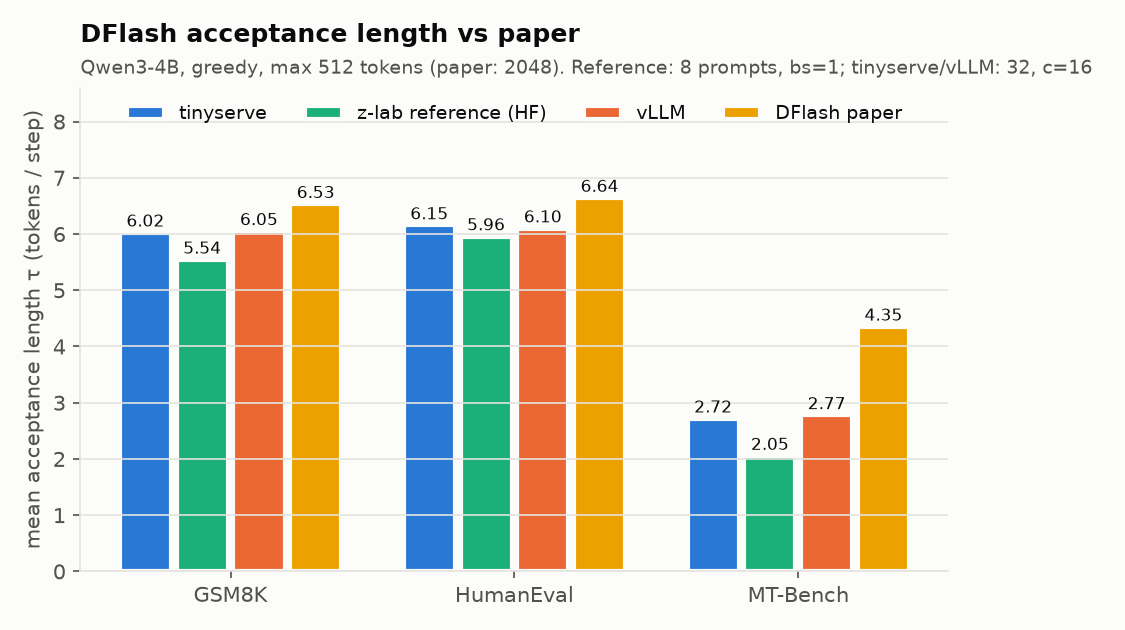
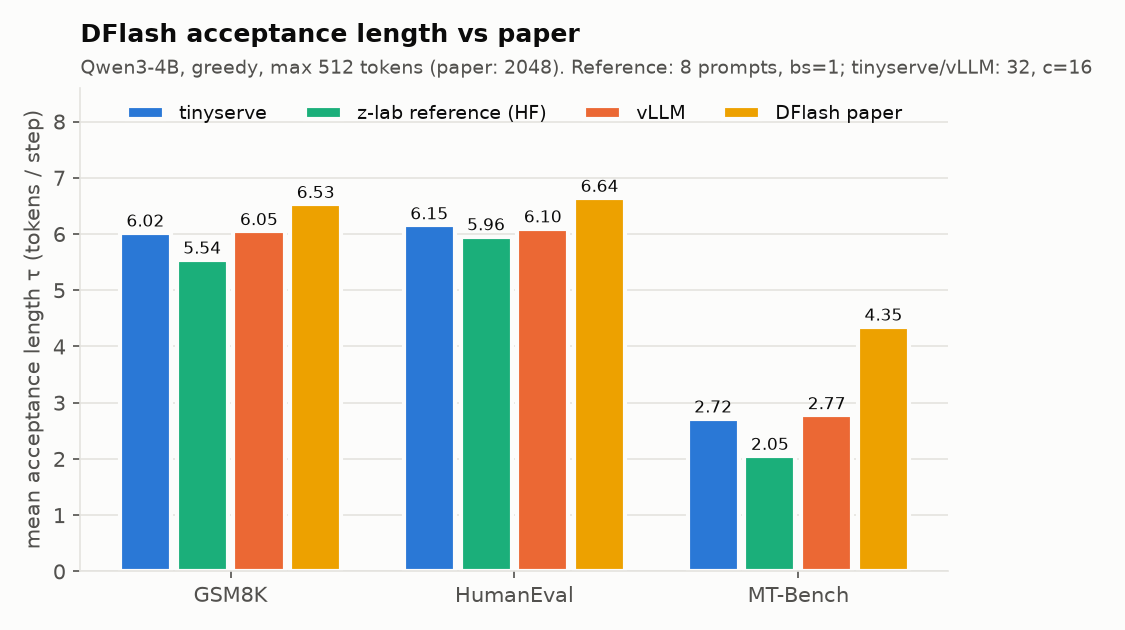
docs: README write-up from artifacts (results, benchmarks, what didn't work, cost)

diff --git a/bench/plot.py b/bench/plot.py
@@ -27,7 +27,7 @@ LABEL = {"tinyserve": "tinyserve", "vllm": "vLLM", "reference": "z-lab reference
 plt.rcParams.update({
     "figure.facecolor": SURFACE, "axes.facecolor": SURFACE, "axes.edgecolor": GRID, "axes.labelcolor": INK2,
     "xtick.color": INK2, "ytick.color": INK2, "text.color": INK, "axes.grid": True, "grid.color": GRID,
-    "grid.linewidth": 0.8, "axes.spines.top": False, "axes.spines.right": False, "font.size": 10,
+    "grid.linewidth": 0.8, "axes.axisbelow": True, "axes.spines.top": False, "axes.spines.right": False, "font.size": 10,
     "legend.frameon": False, "axes.titlesize": 12, "axes.titleweight": "bold", "axes.titlelocation": "left",
 })
 

diff --git a/README.md b/README.md
@@ -1,74 +1,317 @@
 # tinyserve
 
-(Work in progress; the full write-up is generated last, from artifacts only.)
+**A ~2.4k-line LLM inference engine with paged KV, continuous batching, prefix caching, CUDA graphs and 2026 DFlash speculative decoding, benchmarked against vLLM on a $0.80/hr GPU.**
+
+tinyserve serves Qwen3 (0.6B to 4B) through an OpenAI-compatible streaming API. It is written in plain
+PyTorch plus flash-attn kernels and one small Triton kernel, and it is tested to be **exactly** correct in
+float64 on a laptop CPU before it ever touches a GPU.
+
+> **Headline results** (NVIDIA L4, 2026-10-07; every number links to an artifact in `results/`)
+>
+> | | |
+> |---|---|
+> | Throughput vs vLLM 0.30.0, Qwen3-0.6B, 64 concurrent requests | **68% of vLLM** (1,461 vs 2,136 output tok/s) |
+> | DFlash speculative decoding, Qwen3-4B, GSM8K, batch 1 | **4.10x** faster than non-spec decode with CUDA graphs (112 vs 27.4 tok/s); vLLM's own DFlash: 4.27x |
+> | DFlash acceptance length τ (GSM8K / HumanEval / MT-Bench) | **6.02 / 6.15 / 2.72**; vLLM 6.05 / 6.10 / 2.77; paper 6.53 / 6.64 / 4.35 |
+> | Prefix caching, 2048-token shared prefix | time to first token **553.7 → 56.1 ms (9.9x)** |
+> | Total GPU spend for the whole project | **$4.44** of Modal credits |
+
+---
+
+## Quickstart
+
+```bash
+uv sync                                   # Python 3.12, torch 2.8 (CPU wheels locally)
+uv run pytest tests/cpu -m "not slow"     # 79 tests, float64, no GPU needed (~1 min)
+uv run pytest tests/cpu -m slow           # real Qwen3-0.6B in float32 vs HF transformers
+
+# GPU work runs on Modal (L4). Every entrypoint runs scripts/cost_guard.py first.
+uv run modal run modal_app.py::download_models          # CPU-only, into a Modal Volume
+uv run modal run modal_app.py::gpu_tests --suite m7     # DFlash verification suite
+uv run modal run modal_app.py::bench --engine tinyserve --suite core
+```
+
+Serve and query it like any OpenAI endpoint (transcript from the M6 GPU run is in RESULTS.md):
+
+```bash
+python -m tinyserve.server.api --model Qwen/Qwen3-4B --spec-method dflash --spec-draft-model z-lab/Qwen3-4B-DFlash-b16
+```
+
+```python
+from openai import OpenAI
+
+client = OpenAI(base_url="http://127.0.0.1:8000/v1", api_key="none")
+stream = client.chat.completions.create(
+    model="Qwen/Qwen3-4B", messages=[{"role": "user", "content": "Name three primary colors."}],
+    max_tokens=64, temperature=0, stream=True,
+    extra_body={"chat_template_kwargs": {"enable_thinking": False}},
+)
+print("".join(c.choices[0].delta.content or "" for c in stream if c.choices))
+```
+
+Offline API: `from tinyserve import LLM, SamplingParams; LLM("Qwen/Qwen3-0.6B").generate(["Hello"], SamplingParams(max_tokens=32))`.
+
+---
+
+## Architecture
+
+```
+ HTTP client ──▶ server/api.py (FastAPI, SSE)  /v1/completions  /v1/chat/completions  /v1/models  /health  /metrics
+                   │  tokenize, chat template, incremental detokenizer
+                   ▼
+                 server/async_engine.py ── one background thread: while work: engine.step()
+                   │                        (blocks on an Event when idle; results go back via call_soon_threadsafe)
+                   ▼
+                 engine.py  LLMEngine.step():
+                   1. scheduler.schedule()        -> Batch(PREFILL | DECODE | SPEC)       pure Python
+                   2. model_runner.run(batch)     -> new token ids                        torch
+                   3. scheduler.postprocess(...)  -> append, stop checks, free blocks     pure Python
+                   │
+   scheduler.py ───┴── block_manager.py   blocks, ref counts, free list, chained-hash prefix cache (no torch)
+   model_runner.py     slot mapping / block tables / cu_seqlens, KV pool, CUDA graphs (decode + spec verify)
+     ├── models/qwen3.py    Qwen3 target, returns aux hidden from layers [1, 9, 17, 25, 33] for DFlash
+     ├── spec/dflash.py     5-layer DFlash draft with its own KV pool on the SAME block tables
+     └── attention/         flash-attn backend (GPU) | pure-PyTorch reference backend (CPU, any block size)
+                            | triton_store.py: the one Triton kernel (scatter K/V into cache slots)
+```
+
+**Life of a request.** The handler tokenizes the prompt (or applies the chat template with thinking
+disabled) and hands it to the engine thread. The scheduler looks up the prompt's full blocks in the prefix
+cache, allocates the rest, and runs a PREFILL step over only the uncached tokens. After that the sequence
+joins the running set: each step is a DECODE (one token, CUDA-graph replay) or, with DFlash, a SPEC step
+(draft 15 tokens, verify 16, keep the agreeing prefix plus one). Every step streams one SSE chunk per
+sequence. On EOS / max_tokens the blocks are freed but keep their hashes, so the next request with the same
+prefix skips that work.
+
+---
+
+## Why each optimization helps
+
+### Paged KV cache
+*Problem:* reserving `max_model_len` contiguous KV slots per request wastes most of the memory and makes
+sharing impossible. *Idea (PagedAttention):* the cache is a pool of fixed-size blocks and each sequence
+has a block table, like a page table: position `p` lives at `block_table[p // B] * B + p % B`. *In
+tinyserve:* `block_manager.py`, plus `model_runner._slots` for the slot mapping. FlashAttention-2's paged
+kernels require blocks of 256 tokens, so the GPU path uses 256 (the CPU reference backend accepts any size;
+tests use 16). *Effect:* on the L4 at 85% memory, Qwen3-0.6B gets 613 blocks = 157k tokens of KV, enough
+for 128 concurrent 1k-token requests.
+
+### Continuous batching with preemption
+*Problem:* static batches wait for their slowest member. *Idea (Orca):* reschedule every iteration;
+finished sequences leave and waiting ones join at the next step. When the KV pool is full, the newest
+sequence is preempted, and later recomputed from prompt + generated tokens (often cheaply, because its
+blocks are still in the prefix cache). *In tinyserve:* `scheduler.py`. *Effect:* throughput grows 15x from
+1 to 128 concurrent requests (109 → 1,636 tok/s, chart below). In float64, batched, preempted and randomly
+arriving requests produce token-identical output to running each alone (`tests/cpu/test_engine_batching.py`).
+
+### Prefix caching (hash chain vs radix tree)
+*Problem:* shared system prompts and chat history are recomputed for every request. *Idea:* name each full
+block by `xxh64(parent_hash, its tokens)`. The chain makes a hit on block i imply the whole prefix matched,
+and lookup is a dict walk until the first miss. This is vLLM's automatic prefix caching. SGLang's
+RadixAttention uses a radix tree instead: token-granular matches and natural LRU over branches, at the cost
+of more code. tinyserve registers a block only after its KV is computed (and, with DFlash, after the draft's
+KV is too), so a hit is always safe. *Effect:* 9.9x faster TTFT in the M4 test; 1,052 → 198 ms TTFT p50 on
+the W2 benchmark (vLLM: 160 ms).
+
+![prefix cache TTFT](results/charts/prefix_cache_ttft.png)
+
+### CUDA graphs
+*Problem:* a decode step of a small model is hundreds of tiny kernels, and the GPU waits for Python to launch
+them. *Idea:* record the decode forward once per batch-size bucket and replay it with one call; pad the
+batch to the next bucket, with padded rows pointing at a reserved dummy KV block. *Effect:* Qwen3-0.6B
+decode drops from 39.1 to 7.75 ms per token at batch 1 (5.0x) with output identical to eager (32/32).
+M9 applies the same trick to the DFlash verify step (1.34x more spec throughput at batch 1).
+
+![CUDA graph ITL](results/charts/cuda_graph_itl.png)
+
+### DFlash speculative decoding (the headline)
+*Problem:* decode is memory-bound. Each step reads all 8 GB of Qwen3-4B's weights to produce one token per
+sequence, so batch-1 decode on a 300 GB/s L4 tops out near 37 tok/s (measured: 27.4).
+
+*Idea:* reading the weights once can verify many tokens. A draft guesses 15 tokens; the target scores all 16
+positions in one forward; we keep the longest prefix where the draft matched the target's own greedy choice,
+plus one bonus token. The output is **identical** to greedy decoding; the draft only changes how many tokens
+each step yields. DFlash (Chen, Liang, Liu, 2026) drafts the whole block in **one** non-causal forward of a
+5-layer model: the block `[last token, MASK × 15]` is denoised at once, conditioned on hidden states from 5
+target layers that are injected into the draft's KV cache. Autoregressive drafters (EAGLE-3) need 15
+sequential draft steps for the same block.
+
+*In tinyserve:* `spec/dflash.py` (draft), `spec/proposer.py` (one batched draft forward per step),
+`model_runner.run_spec` (verify) and `spec/verify.py` (greedy accept). The draft's KV pool uses the same
+block tables as the target, so paging, preemption and prefix caching work unchanged.
+
+*Effect:* 4.10x at batch 1 (offline, graph-captured verify) and 3.96x through the HTTP server, with τ ≈ 6 on
+GSM8K and HumanEval, within 1% of vLLM's DFlash and within 2% of the z-lab reference. *Why the speedup
+shrinks with concurrency:* at 16 concurrent requests each step verifies 256 tokens, the target forward
+starts to become compute-bound, and every rejected token is wasted compute. Both engines converge to ~3.1x
+at c=16 (the paper's B200 numbers fall from 4.8x to 2.9x by c=32).
+
+![DFlash speedup](results/charts/spec_speedup_vs_concurrency.png)
+![tau vs paper](results/charts/tau_vs_paper.png)
+
+---
+
+## Benchmarks vs vLLM (same L4, same model, same client)
+
+**Method** (PLAN.md §7). Server and load generator run in the same Modal container for both engines, with
+byte-identical requests from `bench/client.py` (closed-loop concurrency, streaming). bf16,
+`max_model_len=4096`, `gpu_memory_utilization=0.85`, `max_num_seqs=128`, prefix caching on. vLLM 0.30.0 runs
+with its defaults (CUDA graphs, torch.compile, chunked prefill). W1/W2 send token-id prompts to
+`/v1/completions` with `ignore_eos`; W3 sends chat prompts with `enable_thinking: false` and `temperature: 0`.
+Metric definitions follow `vllm/benchmarks/serve.py`. Full tables: [`results/bench/summary.md`](results/bench/summary.md).
+
+![throughput](results/charts/throughput_vs_concurrency.png)
+![TTFT](results/charts/ttft_p50_vs_concurrency.png)
+![TPOT](results/charts/tpot_p50_vs_concurrency.png)
+
+| concurrency | 1 | 4 | 16 | 64 | 128 |
+|---|---|---|---|---|---|
+| tinyserve output tok/s | 109 | 354 | 870 | 1,461 | 1,636 |
+| vLLM output tok/s | 161 | 544 | 1,352 | 2,136 | 2,310 |
+| tinyserve / vLLM | 68.0% | 65.0% | 64.3% | **68.4%** | 70.8% |
+
+Run-to-run spread (repeat at c=16): tinyserve 870 vs 846 tok/s (2.8%), vLLM 1,352 vs 1,349 (0.2%).
+DFlash at c=1: 76.5 vs 76.7 tok/s (eager verify), 104.3 vs 102.0 (graph verify).
+
+**Where the remaining ~32% goes** (one-off `torch.profiler` + step-timing run, `results/verify/profile.log`):
+1. **The HTTP layer costs ~21%.** The same workload runs at 1,843 tok/s in the offline engine vs 1,461
+   through the server. Server and engine share one Python process: SSE encoding, detokenization and asyncio
+   compete with the engine thread for the GIL. vLLM runs its engine core in a separate process.
+2. **Prefill is unfused and blocks decode.** A prefill step of up to 8,192 tokens averages 345 ms (~28 TFLOPS,
+   23% of the L4's dense peak) and, without chunked prefill, stalls every running decode while it runs.
+   This shows up as tinyserve's TTFT at c=64 (1.23 s vs vLLM's 0.24 s).
+3. **Decode is GPU-bound, not CPU-bound** (87% of CPU time is spent waiting for the GPU). The gap is kernel
+   efficiency: vLLM's torch.compile fuses RMSNorm / RoPE / SiLU-and-mul, while tinyserve runs them as separate
+   kernels, and at these context lengths each decode step also reads ~5 GB of KV.
+
+---
+
+## Correctness: how losslessness is tested
+
+* **Exact on CPU in float64.** A torch reference attention backend runs the *whole engine* on a laptop.
+  Tiny random Qwen3 models in float64 make greedy decoding free of ties, so the tests demand exact equality:
+  logits vs HF transformers < 1e-9; batched == sequential == preempted == random arrival; cache on == cache off;
+  spec == non-spec; and, for DFlash, the **per-step acceptance lengths and draft logits equal the vendored z-lab
+  reference** (`tests/reference/dflash_ref.py`, MIT). Real Qwen3-0.6B in float32 matches HF `generate` token for token.
+* **The tests catch real bugs.** Injecting two bugs from the DFlash debug checklist (off-by-one RoPE positions
+  for draft context, missing `k_norm` on context keys) fails the parity tests while losslessness still passes.
+  That is expected, since a bad draft only lowers τ.
+* **Mock proposers.** An oracle proposer (the target's own continuation) must give τ = 16 exactly; a random one
+  τ ≈ 1; a "corrupted oracle" running the real draft forward forces acceptance lengths 1-16 and checks every
+  step's draft logits against a from-scratch reference forward.
+* **On the GPU, one pre-declared near-tie rule.** bf16 kernels differ in the last bit, so two correct
+  implementations can pick different tokens where the top-2 logits are (nearly) equal. A divergence counts only
+  if the reference's top-1/top-2 gap there is < 0.5. Any other divergence is reported as a mismatch.
+
+---
 
 ## What didn't work / didn't reproduce
 
-### M2: bf16 GPU thresholds (FAIL as specified; analysis)
+Every target below is kept as written in PLAN.md and marked FAIL where missed; the analysis is here.
 
-Artifacts: `results/verify/m2.json`, `results/verify/m2.log`.
+### bf16 GPU "exact match" targets (M2, M3, M4, M7c): FAIL, and why
 
-* **(a) flash vs torch backend, prefill logits max-abs-diff < 0.15: measured 0.75 (FAIL).**
-  Top-1 agreement was 99.55% (passes the >= 99% part). Same-run diagnostic: each bf16 backend is
-  about as far from a float32 run of the same weights (flash 0.89, torch-bf16 0.77 max-abs), and
-  flash agrees with fp32 on top-1 *more* often (99.55%) than the torch backend does (99.11%).
-  Mean |flash - torch| is 0.04. Conclusion: the 0.75 gap is bf16 rounding in a 28-layer bf16
-  residual stream (logits are ~20-30, where one bf16 ulp is 0.125), not a backend bug. A 0.15
-  max-abs threshold is below the bf16 noise floor for this model. The exactness of the math is
-  established on CPU instead (float64 tiny model: < 1e-9 vs HF; real Qwen3-0.6B float32:
-  token-identical to HF `generate`).
-* **(c) greedy 128 tokens vs HF bf16, >= 7/8 exact: measured 3/8 exact, 8/8 exact-or-near-tie (FAIL on the exact count).**
-  Every divergence happened where HF's own top-1/top-2 gap was 0.0-0.125 (0-1 bf16 ulp). The
-  same-run baseline is decisive: **HF bf16 sdpa vs HF bf16 eager (same weights, same framework)
-  is also only 3/8 exact, 8/8 near-tie.** Exact agreement over 128 bf16 greedy tokens is not a
-  property any two attention kernels have here, so the >= 7/8 target was unrealistic. Next time:
-  compare at >= 8 decimal precision (fp32 on GPU) for exactness and keep bf16 for the near-tie rule only.
+The plan expected 87-97% of bf16 GPU outputs to match token for token across kernels or batch shapes.
+Measured: M2 3/8 (vs HF), M3 24/64 (batched vs bs=1), M4 14/32 (cache on vs off), M7 32/96 (spec vs non-spec).
+The near-tie rule passed on 8/8, 64/64, 32/32 and 93/96.
 
-### M3: batched vs sequential in bf16 (FAIL on the exact count; analysis)
+* The decisive baseline (M2, same run): **HF transformers bf16 sdpa vs HF bf16 eager is also only 3/8 exact**
+  (8/8 near-tie). Two attention kernels in the same framework, with the same weights, disagree as often as
+  tinyserve disagrees with HF.
+* Divergences sit at bf16-quantized gaps: in M3, all 40 were at gaps ≤ 0.25 and **20 at exactly 0.0** (two
+  vocabulary entries with the same bf16 logit). A different batch size picks a different cuBLAS GEMM, the
+  hidden state changes in its last bit, and the tie flips. In M4 the prompts were random token ids (flat
+  distributions); every divergence was a near-tie.
+* M2(a) flash vs torch backend: max-abs logit diff 0.75 vs the 0.15 target, but each bf16 backend is about as far from
+  float32 (0.89 and 0.77), and flash agrees with float32 on top-1 more often (99.55% vs 99.11%). 0.15 is below
+  bf16's noise floor for a 28-layer model: the logit gaps we observe are multiples of 0.125, which is one bf16 ulp
+  for values between 16 and 32.
+* **M7c has 3 divergences at a gap of exactly 0.5**, the boundary of the rule (< 0.5), so they count as
+  mismatches. All 64 divergences have gaps that are multiples of 0.125 (0, 0.125, 0.25 or 0.5), and the
+  float64 CPU tests show spec == non-spec exactly, so I believe these are rounding too, but the run did not save
+  which prompts diverged, so this is unverified. Next step: re-run those prompts in float32 on the GPU.
+* Lesson: exactness belongs in float64/float32 tests; bf16 tests should only assert the near-tie rule.
 
-Artifacts: `results/verify/m3.json`, `results/verify/m3.log`.
+### DFlash τ on MT-Bench (M7b): 2.72 vs the paper's 4.35, FAIL (target ≥ 3.0)
 
-* **Batched (max_num_seqs=32) vs bs=1 sequential, 64 chat prompts x 128 tokens: 24/64 exact (target >= 60), 64/64 exact-or-near-tie.**
-  All 40 divergences happened where the bs=1 run's own top-1/top-2 logit gap was <= 0.25, and
-  **20 of them at a gap of exactly 0.0** (two vocabulary entries with the same bf16 logit). With a
-  batch of 32 instead of 1, cuBLAS picks different GEMM kernels, the bf16 hidden states differ in
-  the last bit, and exact ties flip. The same code is exact in float64 on CPU (`tests/cpu/test_engine_batching.py`:
-  batched, preempted, random-arrival == solo, token for token), so this is bf16 arithmetic, not
-  scheduling or paging. The >= 60/64 target assumed bf16 greedy decoding is far more stable than it is
-  for 128-token outputs: 40/64 outputs reach a near-tie within 128 tokens, 20/64 an exact tie.
+GSM8K (6.02 vs 6.53) and HumanEval (6.15 vs 6.64) are at 92-93% of the paper and pass. MT-Bench is not a
+tinyserve bug: the vendored z-lab reference gets **2.05** on the same prompts, and vLLM's DFlash gets 2.77.
+Likely causes, not verified: we use only the first turn of each MT-Bench conversation, cap output at 512
+tokens (the paper uses 2048), and may format the prompts differently than the paper's harness.
 
-### M4: prefix cache on vs off in bf16 (hit rate and TTFT pass; exact count FAILs)
+### Speedup vs the paper (M7d, M8)
 
-Artifacts: `results/verify/m4.json`, `results/verify/m4.log`.
+The paper reports 5.15x at batch 1 on an H200 with a tuned stack. tinyserve reached 3.12x with an eager spec
+path (M7) and 4.10x after graph-capturing the verify step (M9c); vLLM's own DFlash reached 4.27x on the same
+L4. The remaining gap to vLLM (112 vs 129 tok/s offline at batch 1) is the draft forward, which is still eager
+because its context length varies per step.
 
-* Hit rate **0.943** (target >= 0.85, PASS) and TTFT p50 **553.7 ms -> 56.1 ms** (ratio 0.101, target <= 0.5, PASS: 9.9x faster).
-* **Outputs cache-on vs cache-off: 14/32 exact (target >= 31), 32/32 exact-or-near-tie (FAIL on the exact count).**
-  With the cache on, the 2048-token prefix is not recomputed: the 64 suffix tokens attend to it
-  through `flash_attn_varlen_func(block_table=...)` instead of in one fresh causal pass, so the bf16
-  rounding differs. The prompts are random token ids, which give the model flat next-token
-  distributions, so near-ties are even more common than with real text. Every divergence was a near-tie (< 0.5 logit gap).
-  The CPU float64 test shows cache-on == cache-off exactly (`tests/cpu/test_prefix_cache.py`).
-  (This run did not store per-divergence gaps; later suites do.)
+### Throughput: 68% of vLLM (target ≥ 60% met; stretch ≥ 85% missed)
 
-### M7: DFlash (speedup and reference parity pass; MT-Bench tau and the bf16 exact count FAIL)
+See "Where the remaining ~32% goes" above. The three fixes, in expected order of payoff: run the engine core in
+its own process; chunked prefill; fused norm/RoPE/activation kernels (or `torch.compile`, a non-goal here).
 
-Artifacts: `results/verify/m7.json`, `results/verify/m7.log`. Qwen3-4B + `z-lab/Qwen3-4B-DFlash-b16`, bf16, L4, greedy, max 512 tokens, thinking disabled.
+### Smaller things
 
-* **(a) tau parity with the z-lab reference (PASS):** tinyserve tau at bs=1 is within 2% of the vendored
-  reference `spec_generate` on the same 8 prompts per dataset (GSM8K 5.65 vs 5.54, HumanEval 6.08 vs 5.96,
-  MT-Bench 2.08 vs 2.05). On CPU in float64 the per-step acceptance sequence *and* the draft logits match the
-  reference exactly (`tests/cpu/test_dflash_spec.py`, mutation-checked: injected RoPE-offset and missing-k_norm bugs make it fail).
-* **(b) tau vs paper: GSM8K 6.02 (0.92x of 6.53) and HumanEval 6.15 (0.93x of 6.64) pass; MT-Bench 2.72 vs 4.35 (0.62x) FAILS the >= 3.0 target.**
-  The reference implementation itself gets only 2.05 on our MT-Bench prompts, so this is not a tinyserve bug.
-  Likely causes, none verified: we use only the first turn of each MT-Bench conversation and cap output
-  at 512 tokens (the paper uses 2048, and longer generations tend to accept more); the paper's exact MT-Bench prompt
-  formatting may differ. GSM8K/HumanEval are below the paper by ~7%, consistent with the 512-token cap.
-* **(c) lossless spec vs non-spec in bf16: 32/96 exact (target >= 90), 93/96 exact-or-near-tie (target 96/96): FAIL.**
-  61 of 64 divergences happen at a top-1/top-2 gap of 0, 0.125 or 0.25 (bf16-quantized logits). The other 3 diverge at a gap of
-  **exactly 0.5**, right at the rule's boundary (near-tie means < 0.5), so by the pre-declared rule they are mismatches. The verify
-  step runs a 16-token causal varlen attention against the paged cache while non-spec decode runs `flash_attn_with_kvcache`
-  one token at a time, so their bf16 rounding differs, the same mechanism as M3/M4. The float64 CPU tests show DFlash spec
-  output == non-spec output token for token (oracle, random and real-draft proposers, with preemption and prefix caching).
-  Not done (the run did not save which prompts diverged): re-run those 3 prompts in float32 on the GPU (torch backend) to show they converge.
-* **(d) speedup (PASS): 3.12x at bs=1** (85.1 vs 27.3 decode tok/s on GSM8K; non-spec uses CUDA graphs, DFlash runs eager),
-  3.23x at c=4 and 2.98x at c=16. Below the paper's 5.15x on H200, as expected for an eager spec path on a 300 GB/s card.
+* **vLLM 0.30.0 failed to start on `debian_slim`** (M8a smoke): its FlashInfer sampler JIT-compiles a kernel
+  with `nvcc`, which the slim image lacks. Fixed with `VLLM_USE_FLASHINFER_SAMPLER=0` (vLLM's PyTorch sampler).
+  Attention still uses vLLM's prebuilt flash-attn. vLLM DFlash (`--speculative-config method=dflash`) worked as is.
+* **"2 errors" at every W1/W2 point, for both engines.** Not HTTP errors: two of the random-token requests
+  generate 256 tokens that are all special tokens, which decode to empty text, so the client never sees a first
+  text chunk and cannot measure TTFT. Their tokens are excluded from throughput for both engines (< 1%).
+* **Benchmark protocol trims (budget).** W3 used `min(32, 8 × concurrency)` requests per point, and only GSM8K
+  was swept over concurrency {1, 2, 4, 8, 16}; HumanEval and MT-Bench ran at c=1 and c=16. The optional W1 point on
+  Qwen3-4B and the ShareGPT workload (W4) were skipped.
+* **Block size 256** (a flash-attn requirement) makes prefix caching coarse: a 2,100-token shared prefix reuses
+  only 2,048 tokens.
+* **No HF reference run for the throughput benchmark** (not planned); the bf16 near-tie rule only compares
+  engines to themselves or to HF in the verification suites.
+
+---
+
+## Cost
+
+Total Modal spend for the whole project: **$4.44** (`modal billing report`, month to date, including image
+builds and CPU downloads), against a planned ~$14 and a hard stop at $25. Every GPU run is a row in
+[COSTLOG.md](COSTLOG.md).
+
+What kept it cheap:
+- only ephemeral `modal run` (never `deploy`), with explicit timeouts, `max_containers=1` and `scaledown_window=30`;
+- weights downloaded once by a CPU-only function into a Volume, and GPU functions run with `HF_HUB_OFFLINE=1`;
+- code mounted at runtime, so edits never rebuild images;
+- one container per milestone check;
+- every bug reproduced on the laptop first, in float64;
+- a `cost_guard.py` pre-check that reads the billing API and also sums the local cost log.
+
+Cost per 1M output tokens at the measured W1 c=128 throughput (1,636 tok/s) with the $1.12/h L4 container:
+$1.12 / (1,636 × 3,600) × 1e6 ≈ **$0.19 per 1M tokens** for Qwen3-0.6B (vLLM: $0.13).
+
+---
+
+## Differences from nano-vllm
+
+nano-vllm inspired the design: the block manager, the prefill-first scheduler and the flash-attn call pattern.
+tinyserve adds:
+- (a) DFlash speculative decoding integrated with paged KV, continuous batching, preemption and prefix caching;
+- (b) an OpenAI-compatible streaming server with TTFT/ITL/TPOT metrics;
+- (c) a head-to-head against vLLM on the same GPU, including vLLM's own DFlash;
+- (d) a CPU-runnable reference backend with an exact float64 test suite;
+- (e) a cost-disciplined serverless GPU harness;
+- (f) this write-up, plus [LEARNING.md](LEARNING.md) for the concepts.
+
+## Future work
+
+Chunked prefill (Sarathi-Serve); a separate engine-core process; overlap of CPU scheduling with GPU work; CUDA
+graphs for the DFlash draft; an EAGLE-3 comparison; SuffixDecoding as a second `Proposer`; and the non-goals:
+tensor/pipeline parallelism, disaggregated prefill/decode, FP8/INT4 quantization, LoRA, MoE models, lossless
+speculative *sampling* at temperature > 0, structured output.
+
+## References and credits
+
+Papers, repos and docs: [RESOURCES.md](RESOURCES.md). Built on
+[nano-vllm](https://github.com/GeeeekExplorer/nano-vllm) (design inspiration),
+[vLLM](https://github.com/vllm-project/vllm) (baseline, prefix-caching design),
+[SGLang](https://github.com/sgl-project/sglang) / [mini-sglang](https://github.com/sgl-project/mini-sglang) (RadixAttention, design reference),
+[flash-attention](https://github.com/Dao-AILab/flash-attention) (attention kernels), and
+[z-lab/DFlash](https://github.com/z-lab/dflash) (draft model and reference implementation, MIT).
+License: MIT.
